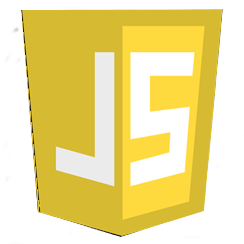
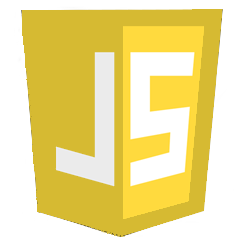
added theme changer and updated some image assets to look a little nicer, although still rough

diff --git a/js/ttt.js b/js/ttt.js
@@ -1,28 +1,49 @@
 window.addEventListener('load', function() {
+  // player model
   class Player {
     constructor() {
       this.symbol = '../assets/x.png';
       this.theme = ['../assets/x.png', '../assets/o.png'];
+      this.prevTheme = [];
     }
 
     changeTheme() {
+      // change board themes by calling this method
       const themes = [
         ['../assets/x.png', '../assets/o.png'],
         ['../assets/javascript.png', '../assets/python.png'],
         ['../assets/rainbowdash.png', '../assets/twilight.png'],
         ['../assets/rdcutiemark.png', '../assets/tcutiemark.png']
       ];
-      let currentThemeIndex = themes.indexOf(this.theme);
 
+      let currentThemeIndex;
+      let currentSymbolIndex = this.theme.indexOf(this.symbol);
+
+      // can't compare arrays directly so will use forEach()
+      // should consider if using an object is more appropriate
+      // for themes than an array
+      themes.forEach((theme, ti) => {
+        if (theme[0] === this.theme[0]) {
+          currentThemeIndex = ti;
+        }
+      });
+
+      // set prev theme to current theme
+      this.prevTheme = this.theme;
+
+      // now set current theme to next theme in themes array
       if(currentThemeIndex === themes.length-1) {
         this.theme = themes[0];
       } else {
         this.theme = themes[currentThemeIndex+1];
       }
-      this.symbol = this.theme[0];
+
+      // set current symbol to new path
+      this.symbol = this.theme[currentSymbolIndex];
     }
 
     changeSymbol() {
+      // switch symbols on each turn by calling this method
       let currentSymbolIndex = this.theme.indexOf(this.symbol);
       let newSymbolIndex = (currentSymbolIndex === 0) ? 1 : 0;
       this.symbol = this.theme[newSymbolIndex];
@@ -30,10 +51,22 @@ window.addEventListener('load', function() {
   }
 
 
-  // player is like a global var for the game
+  // these are like global vars for the game
   var player;
+  var newBoard;
+  const htmlBoard = document.getElementById('board');
+  const clearBtn = document.createElement('div');
+  const themeBtn = document.createElement('div');
+
+  clearBtn.id = 'clear_btn'
+  clearBtn.className = 'game_btn'
+  clearBtn.innerText = 'Clear';
+  themeBtn.id = 'theme_btn'
+  themeBtn.className = 'game_btn'
+  themeBtn.innerText = 'Theme';
 
 
+  // board model
   class Board {
     constructor(size) {
       this.size = size;
@@ -45,6 +78,7 @@ window.addEventListener('load', function() {
       const board = document.getElementById('board');
       const rows = this.assignStyleClasses();
 
+      // for each row append it to the board container
       rows.forEach((row, si) => {
         return board.appendChild(row);
       });
@@ -53,6 +87,8 @@ window.addEventListener('load', function() {
     assignStyleClasses() {
       const spaces = [];
 
+      // here we check space position and add appropriate class names
+      // which is for border styling
       for(let ri = 0; ri < this.size; ri++) {
         const rowCont = document.createElement('div');
         rowCont.className = 'board_row';
@@ -72,9 +108,13 @@ window.addEventListener('load', function() {
       			htmlClass.push('last_col');
       		}
 
+          // create the space object
           const space = new Space();
+          // push it to the space array so we can easily update
+          // extant space objects later
           this.spacesArray.push(space);
 
+          // create and append space elements to row container
           rowCont.appendChild(space.createSpace(htmlClass.join(' ')));
         };
 
@@ -82,16 +122,21 @@ window.addEventListener('load', function() {
         spaces.push(rowCont);
       };
 
+      // return an array of row elements
       return spaces;
     }
 
     checkForEmptySpaces() {
+      // filter for empty spaces
       const emptySpaces = this.spacesArray.filter((space) => {
         if (!space.occupied) {
           return true;
         }
       });
 
+      // if there are empty spaces then simply return true
+      // else update UI with game over, update board object
+      // with finished = true and return false
       if (emptySpaces.length > 0) {
         return true;
       } else {
@@ -110,9 +155,12 @@ window.addEventListener('load', function() {
   }
 
 
+  // space model
   class Space {
     constructor() {
       this.occupied = false;
+      this.symbol = '';
+      this.element = '';
     }
 
     createSpace(htmlClass) {
@@ -126,30 +174,26 @@ window.addEventListener('load', function() {
         if(!self.occupied) {
           // update the space, style, and player turn
           self.occupied = true;
-          e.target.style.background = 'no-repeat center/93% url(' + player.symbol + ')';
+          self.symbol = player.symbol;
+          e.target.style.background = 'no-repeat center/80% url(' + player.symbol + ')';
           player.changeSymbol();
         }
       });
 
+      this.element = spaceCont;
       return spaceCont;
+    }
+
+    changeTheme() {
+      this.element.style.background = 'no-repeat center/80% url(' + this.symbol + ')';
     }
   }
 
 
-  const htmlBoard = document.getElementById('board');
-  const clearBtn = document.createElement('div');
-  const themeBtn = document.createElement('div');
-
-  clearBtn.id = 'clear_btn'
-  clearBtn.className = 'game_btn'
-  clearBtn.innerText = 'Clear';
-  themeBtn.id = 'theme_btn'
-  themeBtn.className = 'game_btn'
-  themeBtn.innerText = 'Theme';
-
+  // create or re-create new game
   let createNewGame = () => {
     player = new Player();
-    const newBoard = new Board(3);
+    newBoard = new Board(3);
 
     newBoard.placeSpaces();
     htmlBoard.appendChild(clearBtn);
@@ -162,7 +206,10 @@ window.addEventListener('load', function() {
     });
   };
 
+
+  // call the create new game function (on page load)
   createNewGame();
+
 
   // add clear board listener and button
   clearBtn.addEventListener('click', () => {
@@ -170,13 +217,29 @@ window.addEventListener('load', function() {
     while (htmlBoard.firstChild) {
       htmlBoard.removeChild(htmlBoard.firstChild);
     }
+
     // make new board and create new player object
     createNewGame();
   });
 
+
   // add change theme listener and button
   themeBtn.addEventListener('click', () => {
+    // change the theme at player level
+    player.changeTheme();
 
+    newBoard.spacesArray.forEach((space) => {
+      let prevSymbol = space.symbol;
+      let prevSymbolIndex = player.prevTheme.indexOf(prevSymbol);
+
+      // update space symbol
+      space.symbol = player.theme[prevSymbolIndex];
+
+      // change the space's background only if it's occupied
+      if(space.occupied) {
+        space.changeTheme();
+      }
+    });
   });
 
 }, false);

diff --git a/css/styles.css b/css/styles.css
@@ -7,17 +7,18 @@ body {
   margin: 0;
   padding: 0;
   font-family: sans-serif;
+  background-color: darkgray;
 }
 
 /* board */
 #board {
   text-align: center;
-	padding: 17vw 13vw;
+	padding: 13vw 13vw;
 }
 
 .board_row {
 	display: flex;
-	height: 27vw;
+	height: 23vw;
 	width: auto;
 }
 
@@ -64,7 +65,7 @@ body {
 	color: pink;*/
 	display: inline-block;
 	cursor: pointer;
-	background: no-repeat center/93% url('../assets/blank.png');
+	background: no-repeat center/80% url('../assets/blank.png');
 }
 
 .board_space:hover {
